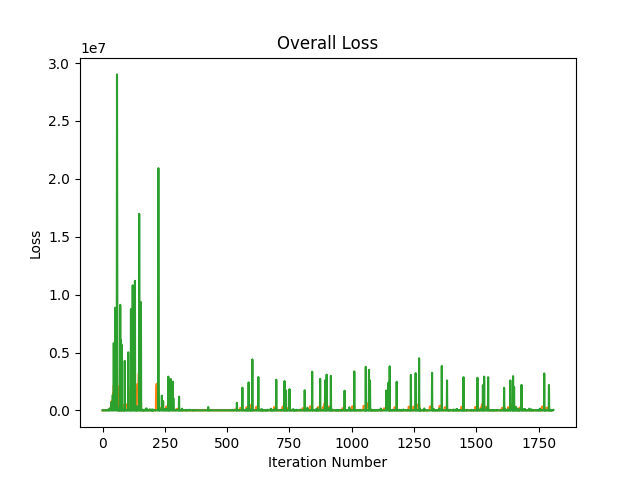
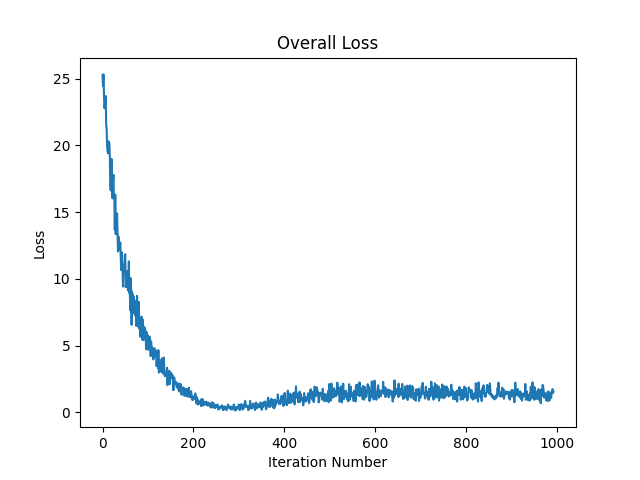
Created new qlearner file with corrected replay buffer implementation

diff --git a/Grammar_Demo/models/DQNAgent.py b/Grammar_Demo/models/DQNAgent.py
@@ -3,6 +3,7 @@ from future import standard_library
 standard_library.install_aliases()
 import sys
 from models.DeepQLearner import *
+from models.DeepQLearner2 import *
 from builtins import range
 from builtins import object
 from textworld.logic import Action, Rule, Placeholder, Predicate, Proposition, Signature, State, Variable
@@ -43,14 +44,16 @@ class DQNAgent(Agent):
         (x1, y1, z1), (x2, y2, z2) = logicState.world_bounds.roundPosition()
 
         # set dqn neural net in DeepQLearner.py
-        self.learner = DeepQLearner(
+        # self.dyna_rate = 20
+        self.learner = DeepQLearner2(
             input_size= (x2-x1+1) + (z2-z1+1)
                 + len(logicState.actions) + len(logicState.triggers),
             num_actions=len(self.move_actions) + len(logicState.actions),
-            discount_factor = 0.9,
-            epsilon = 0.2,
+            discount_factor = 0.95,
+            epsilon = 0.1,
             epsilon_decay = 0.99,
             learning_rate = 0.0005,
+            dyna_rate = 10,
             clip = 1,
             load_path='cache/dqn.pkl',
             save_path='cache/dqn.pkl',
@@ -119,6 +122,8 @@ class DQNAgent(Agent):
             action = self.learner.querysetstate(current_state)
         else:
             action = self.learner.query(current_state, current_reward)
+        
+        if self.dyna_rate > rand.random():
             self.learner.run_dyna()
 
         if self.verbose: self.draw_QTable( curr_x = int(obs[u'XPos']), curr_y = int(obs[u'ZPos']) )
@@ -179,7 +184,7 @@ class DQNAgent(Agent):
 
         self.prev_state = None
         self.prev_action = None
-
+        # self.learner.clear_dyna()
         is_first_action = True
 
         # main loop:
@@ -200,15 +205,9 @@ class DQNAgent(Agent):
                     #accumulate reward for current state
                     for reward in world_state.rewards:
                         current_reward += reward.getValue()
-                    # print(current_reward)
                     current_reward += self.host.rewardValue()
-                    # print(current_reward)
                     # if running and have observations, act on state and set total reward to curr reward
                     if world_state.is_mission_running and len(world_state.observations)>0 and not world_state.observations[-1].text=="{}":
-                        # action, reward = self.queryActions(world_state, current_reward)
-                        # total_reward += reward
-                        # actionString += str(action)
-                        # actionString += ", "
                         total_reward += self.act(world_state, current_reward)
                         break
                     if not world_state.is_mission_running:
@@ -223,10 +222,7 @@ class DQNAgent(Agent):
                         self.logger.error("Error: %s" % error.text)
                     for reward in world_state.rewards:
                         current_reward += reward.getValue()
-                    # print(current_reward)
                     current_reward += self.host.rewardValue()
-                    # print(current_reward)
-
                 # allow time to stabilise after action
                 while True:
                     time.sleep(0.1)
@@ -235,33 +231,28 @@ class DQNAgent(Agent):
                         self.logger.error("Error: %s" % error.text)
                     for reward in world_state.rewards:
                         current_reward += reward.getValue()
-                    # print(current_reward)
                     current_reward += self.host.rewardValue()
-                    # print(current_reward)
                     # if running and have observations, act on state and set total reward to curr reward
                     if world_state.is_mission_running and len(world_state.observations)>0 and not world_state.observations[-1].text=="{}":
-                        # action, reward = self.queryActions(world_state, current_reward)
-                        # total_reward += reward
-                        # actionString += str(action)
-                        # actionString += ", "
                         total_reward += self.act(world_state, current_reward)
                         break
                     if not world_state.is_mission_running:
                         break
-            
-            # if len(actionString) > 13:
-            #     print(actionString)
-            #     input("Continue...")
-            #     actionString = ""
+            # self.dyna_rate -= 1
+            # if self.dyna_rate == 0:
+            # self.learner.run_dyna()
 
         # process final reward
         self.logger.debug("Final reward: %d" % current_reward)
         total_reward += current_reward
 
         # update Q values
-        if self.prev_state is not None and self.prev_action is not None:
-            self.learner.query(self.host.state.getStateEmbedding(), current_reward)
+        # if self.prev_state is not None and self.prev_action is not None:
+        #     self.learner.query(self.host.state.getStateEmbedding(), current_reward)
+        self.learner.run_dyna()
 
+        self.learner.updateEps()
+        
         if self.verbose: self.draw_QTable()
         self.cumulative_rewards.append(total_reward)
 

diff --git a/Grammar_Demo/models/TabQAgent.py b/Grammar_Demo/models/TabQAgent.py
@@ -26,12 +26,17 @@ class TabQAgent(Agent):
     """Tabular Q-learning agent for discrete state/action spaces."""
 
     def __init__(self, agentHost=None):
-        self.epsilon = 0.1 # chance of taking a random action instead of the best
         self.logger = logging.getLogger(__name__)
-        if False: # True if you want to see more information
+        self.verbose = agentHost.verbose
+        if self.verbose: # True if you want to see more information
             self.logger.setLevel(logging.DEBUG)
-        else:
-            self.logger.setLevel(logging.INFO)
+        self.logger.handlers = []
+        self.logger.addHandler(logging.StreamHandler(sys.stdout))
+
+        self.epsilon = 0.1 # chance of taking a random action instead of the best
+        self.alpha = 0.5
+        self.gamma = 0.9
+
         self.host = agentHost
         self.logger.handlers = []
         self.logger.addHandler(logging.StreamHandler(sys.stdout))
@@ -40,8 +45,6 @@ class TabQAgent(Agent):
         self.logical_q_table = {}
         self.canvas = None
         self.root = None
-        self.alpha = 0.5
-        self.gamma = 0.9
         self.cumulative_rewards = []
         self.logFile = 'TabQAgent-' + time.strftime("%Y%m%d-%H%M%S") + '.txt'
 
@@ -78,7 +81,7 @@ class TabQAgent(Agent):
         if self.prev_s is not None and self.prev_a is not None:
             self.updateQTable( current_r, current_s )
 
-        self.drawQ( curr_x = int(obs[u'XPos']), curr_y = int(obs[u'ZPos']) )
+        if self.verbose: self.drawQ( curr_x = int(obs[u'XPos']), curr_y = int(obs[u'ZPos']) )
 
         # select the next action
         rnd = random.random()
@@ -154,7 +157,7 @@ class TabQAgent(Agent):
         if self.prev_s is not None and self.prev_a is not None:
             self.updateQTable( current_r, current_s )
 
-        self.drawQ( curr_x = int(obs[u'XPos']), curr_y = int(obs[u'ZPos']) )
+        if self.verbose: self.drawQ( curr_x = int(obs[u'XPos']), curr_y = int(obs[u'ZPos']) )
 
         # select the next action
         rnd = random.random()
@@ -258,7 +261,7 @@ class TabQAgent(Agent):
         if self.prev_s is not None and self.prev_a is not None:
             self.updateQTableFromTerminatingState( current_r )
 
-        self.drawQ()
+        if self.verbose: self.drawQ()
 
         self.cumulative_rewards.append(total_reward)
 

diff --git a/Grammar_Demo/models/DeepQLearner.py b/Grammar_Demo/models/DeepQLearner.py
@@ -101,7 +101,8 @@ class DeepQLearner(object):
 
         # Loss and optimizer
         self.criterion = nn.MSELoss()
-        self.optimizer = torch.optim.Adam(self.policy_net.parameters(), lr=learning_rate)
+        # self.optimizer = torch.optim.Adam(self.policy_net.parameters(), lr=learning_rate)
+        self.optimizer = torch.optim.SGD(self.policy_net.parameters(), lr=learning_rate)
 
         # Load saved model
         self.save_path = save_path
@@ -116,6 +117,10 @@ class DeepQLearner(object):
 
     def author(self):
         return 'kxiao36'
+
+    def updateEps(self):
+        self.epsilon *= self.epsilon_decay
+        return
 
     def querysetstate(self, s):
         """
@@ -147,6 +152,7 @@ class DeepQLearner(object):
         self.samples.append([self.state, self.action, next_state, reward])
         while len(self.samples) > self.max_samples:
             self.samples.pop()
+            # self.samples.remove(rand.choice(self.samples))
         reward += 5 if not self.camera else 0
 
         # query target net for action and calculate expected reward
@@ -180,7 +186,7 @@ class DeepQLearner(object):
         nn.utils.clip_grad_norm_(self.policy_net.parameters(), self.clip)
         self.state = next_state
         self.action = next_action if self.epsilon < rand.random() else rand.randint(0, self.num_actions - 1)
-        self.epsilon *= self.epsilon_decay
+        # self.epsilon *= self.epsilon_decay
 
         if self.verbose: print("s =", next_state,"a =",self.action,"reward =",reward)
         return self.action
@@ -282,6 +288,9 @@ class DeepQLearner(object):
             }, self.save_path)
 
     def plot_loss(self):
+        # print(len(self.losses))
+        # print(self.losses)
+        plt.clf()
         prices_length = 10
         ravgs = [sum(self.losses[i:i+prices_length])/prices_length for i in range(len(self.losses)-prices_length+1)]
         plt.plot(ravgs)
@@ -293,7 +302,7 @@ class DeepQLearner(object):
             plt.savefig("./graphs/CameraDQN_Avg_Loss_graph.png")
         else:
             plt.savefig("./graphs/DQN_Avg_Loss_graph.png")
-
+        plt.clf()
         plt.plot(self.losses)
         plt.xlabel("Iteration Number")
         plt.ylabel("Loss")

diff --git a/Grammar_Demo/models/CameraDQNAgent.py b/Grammar_Demo/models/CameraDQNAgent.py
@@ -3,6 +3,7 @@ from future import standard_library
 standard_library.install_aliases()
 import sys
 from models.DeepQLearner import *
+from models.DeepQLearner2 import *
 from builtins import range
 from builtins import object
 from textworld.logic import Action, Rule, Placeholder, Predicate, Proposition, Signature, State, Variable
@@ -47,15 +48,15 @@ class CameraDQNAgent(Agent):
         (x1, y1, z1), (x2, y2, z2) = logicState.world_bounds.roundPosition()
 
 
-        self.dyna_rate = 0.7
-        self.counter = 0
-        self.learner = DeepQLearner(
+        # self.dyna_rate = 0.7
+        self.learner = DeepQLearner2(
             input_size = 31,
             num_actions=len(self.move_actions) + len(logicState.actions),
-            discount_factor = 0.98,
-            epsilon = 0.2,
-            epsilon_decay = 0.99,
-            learning_rate = 0.0005,
+            discount_factor = 0.98, # 0.9
+            epsilon = 0.2, 
+            epsilon_decay = 0.99,# 0.99
+            learning_rate = 0.0005, # 0.0005
+            dyna_rate = 20, 
             clip = 1,
             load_path='cache/camera_dqn.pkl',
             save_path='cache/camera_dqn.pkl',
@@ -259,13 +260,15 @@ class CameraDQNAgent(Agent):
 
         # update Q values
         final_s = (np.array(frame.pixels).reshape(3, frame.height, frame.width), self.host.state.getStateEmbedding())
-        self.learner.query(final_s, current_reward)
+        # self.learner.query(final_s, current_reward)
 
         # double check if this improves accuracy
-        if self.dyna_rate > random.random():
-            if self.verbose: print("Running dyna replay...")
-            self.learner.run_dyna()
+        # if self.dyna_rate > random.random():
+        #     if self.verbose: print("Running dyna replay...")
+        self.learner.run_dyna()
 
+        self.learner.updateEps()
+        
         if self.verbose: self.drawQ()
         self.cumulative_rewards.append(total_reward)
 

diff --git a/Grammar_Demo/grammar_api.py b/Grammar_Demo/grammar_api.py
@@ -224,6 +224,7 @@ class GrammarMission:
         return self.grammar_logic
 
     def plot_reward(self, cumulative_rewards):
+        plt.clf()
         plt.plot(cumulative_rewards)
         plt.xlabel("Iteration Number")
         plt.ylabel("Rewards")
